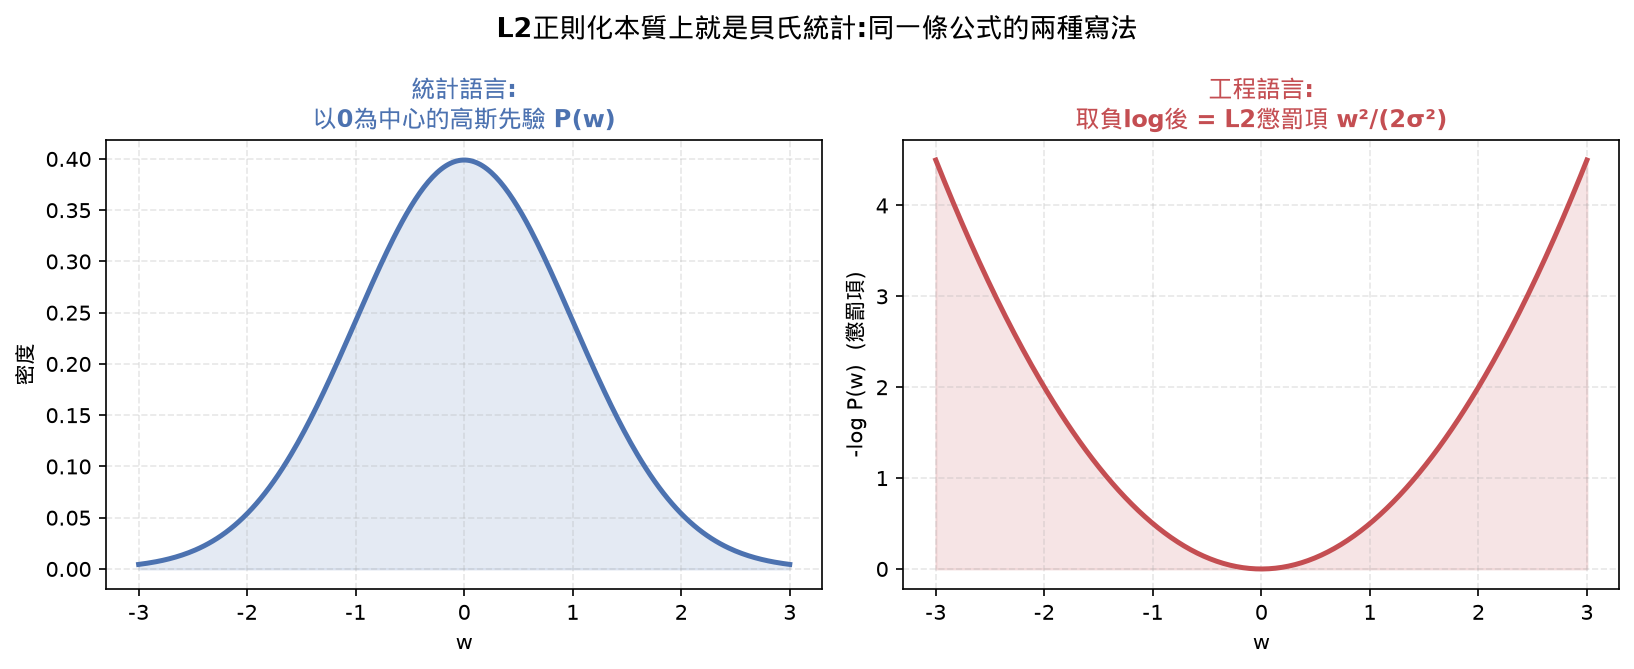
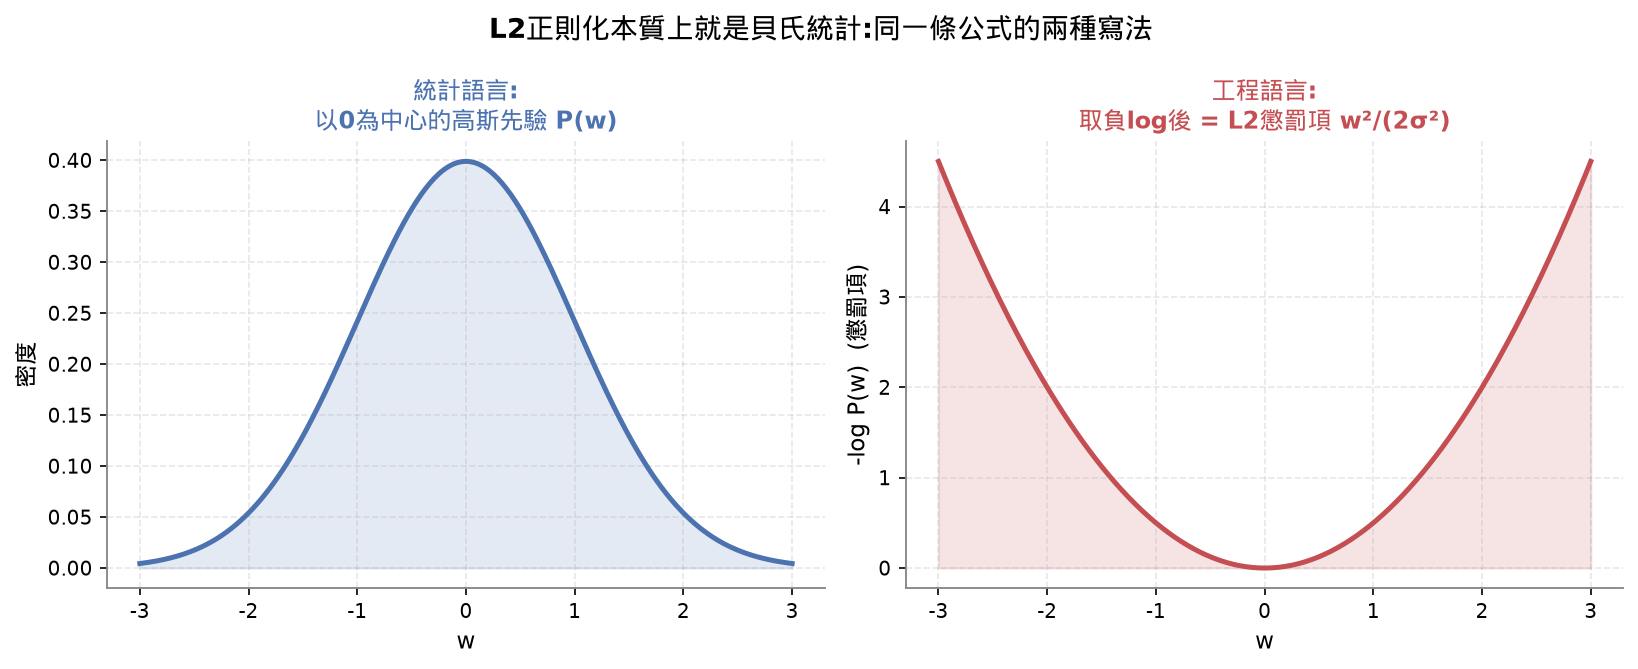
Lesson 7 diagrams: unify visual style
Regenerate with the shared plot style module.

diff --git a/01-math-foundations/07-bayes-theorem/images/make_laplace_smoothing_demo.py b/01-math-foundations/07-bayes-theorem/images/make_laplace_smoothing_demo.py
@@ -6,9 +6,10 @@ import matplotlib
 import matplotlib.font_manager as fm
 import matplotlib.pyplot as plt
 
-fm.fontManager.addfont("/usr/share/fonts/truetype/droid/DroidSansFallbackFull.ttf")
-matplotlib.rcParams["font.family"] = ["DejaVu Sans", "Droid Sans Fallback"]
-matplotlib.rcParams["axes.unicode_minus"] = False
+import sys
+sys.path.insert(0, "../../_shared")
+from plot_style import setup_style, BLUE, RED, GREEN, PURPLE, GOLD, GRAY
+setup_style()
 
 vocab_size = 20
 total_words = 50
@@ -27,8 +28,8 @@ ax.set_xticks(list(x))
 ax.set_xticklabels(words, fontsize=9.5)
 ax.set_ylabel("P(詞|類別)", fontsize=10.5)
 ax.grid(alpha=0.3, linestyle="--", axis="y")
-ax.legend(fontsize=10)
-ax.set_title("Laplace smoothing:未出現詞的機率從0變成一個很小的非零值", fontsize=12, fontweight="bold")
+ax.legend()
+ax.set_title("Laplace smoothing:未出現詞的機率從0變成一個很小的非零值")
 ax.annotate("這裡是0!\n連乘會讓整句話的分數直接塌陷成0", (3 - w / 2, 0), textcoords="offset points",
             xytext=(-10, 30), fontsize=8.5, color="#C44E52", ha="center",
             arrowprops=dict(arrowstyle="->", color="#C44E52"))

diff --git a/01-math-foundations/07-bayes-theorem/images/make_bayes_theorem_demo.py b/01-math-foundations/07-bayes-theorem/images/make_bayes_theorem_demo.py
@@ -6,9 +6,10 @@ import matplotlib
 import matplotlib.font_manager as fm
 import matplotlib.pyplot as plt
 
-fm.fontManager.addfont("/usr/share/fonts/truetype/droid/DroidSansFallbackFull.ttf")
-matplotlib.rcParams["font.family"] = ["DejaVu Sans", "Droid Sans Fallback"]
-matplotlib.rcParams["axes.unicode_minus"] = False
+import sys
+sys.path.insert(0, "../../_shared")
+from plot_style import setup_style, BLUE, RED, GREEN, PURPLE, GOLD, GRAY
+setup_style()
 
 fig, ax = plt.subplots(figsize=(9.5, 4))
 ax.set_xlim(0, 10)
@@ -34,7 +35,7 @@ ax.add_patch(plt.Rectangle((3.3, -0.9), 3.4, 1.05, facecolor="#C44E52", alpha=0.
 ax.text(5, -0.4, "Posterior  P(A|B)\n看到證據後,更新過的信念", ha="center", va="center", fontsize=9.5, fontweight="bold", color="#C44E52")
 
 ax.set_ylim(-1.3, 3.2)
-ax.set_title("貝氏定理:Prior × Likelihood ÷ Evidence = Posterior", fontsize=13, fontweight="bold")
+ax.set_title("貝氏定理:Prior × Likelihood ÷ Evidence = Posterior")
 
 plt.tight_layout()
 plt.savefig("bayes_theorem_flow.png", dpi=150, bbox_inches="tight")

diff --git a/01-math-foundations/07-bayes-theorem/images/make_mle_vs_map_demo.py b/01-math-foundations/07-bayes-theorem/images/make_mle_vs_map_demo.py
@@ -5,9 +5,10 @@ import matplotlib
 import matplotlib.font_manager as fm
 import matplotlib.pyplot as plt
 
-fm.fontManager.addfont("/usr/share/fonts/truetype/droid/DroidSansFallbackFull.ttf")
-matplotlib.rcParams["font.family"] = ["DejaVu Sans", "Droid Sans Fallback"]
-matplotlib.rcParams["axes.unicode_minus"] = False
+import sys
+sys.path.insert(0, "../../_shared")
+from plot_style import setup_style, BLUE, RED, GREEN, PURPLE, GOLD, GRAY
+setup_style()
 
 labels = ["先驗信念\nBeta(2,2)均值", "MLE估計\n(只看資料)\n7/10", "MAP估計\n(資料+先驗)\n(2+7)/(2+2+10)"]
 values = [0.5, 0.7, 9 / 14]
@@ -21,7 +22,7 @@ for b, v in zip(bars, values):
 ax.axhline(0.5, color="#999999", lw=1, linestyle="--")
 ax.set_ylim(0, 0.85)
 ax.set_ylabel("估計的正面機率")
-ax.set_title("MLE vs MAP:MAP被先驗往0.5拉回一點,資料量越大先驗影響越小", fontsize=12.5, fontweight="bold")
+ax.set_title("MLE vs MAP:MAP被先驗往0.5拉回一點,資料量越大先驗影響越小")
 ax.grid(alpha=0.3, linestyle="--", axis="y")
 
 plt.tight_layout()

diff --git a/01-math-foundations/07-bayes-theorem/images/make_l2_gaussian_prior_demo.py b/01-math-foundations/07-bayes-theorem/images/make_l2_gaussian_prior_demo.py
@@ -7,9 +7,10 @@ import matplotlib.font_manager as fm
 import matplotlib.pyplot as plt
 import numpy as np
 
-fm.fontManager.addfont("/usr/share/fonts/truetype/droid/DroidSansFallbackFull.ttf")
-matplotlib.rcParams["font.family"] = ["DejaVu Sans", "Droid Sans Fallback"]
-matplotlib.rcParams["axes.unicode_minus"] = False
+import sys
+sys.path.insert(0, "../../_shared")
+from plot_style import setup_style, BLUE, RED, GREEN, PURPLE, GOLD, GRAY
+setup_style()
 
 w = np.linspace(-3, 3, 300)
 sigma = 1.0
@@ -32,7 +33,7 @@ axes[1].set_xlabel("w")
 axes[1].set_ylabel("-log P(w)  (懲罰項)")
 axes[1].grid(alpha=0.3, linestyle="--")
 
-fig.suptitle("L2正則化本質上就是貝氏統計:同一條公式的兩種寫法", fontsize=13, fontweight="bold")
+fig.suptitle("L2正則化本質上就是貝氏統計:同一條公式的兩種寫法")
 plt.tight_layout()
 plt.savefig("l2_regularization_as_gaussian_prior.png", dpi=150, bbox_inches="tight")
 print("saved")
